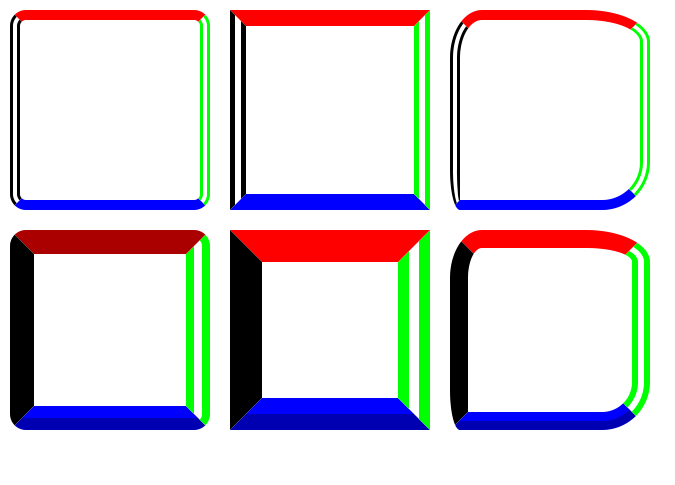
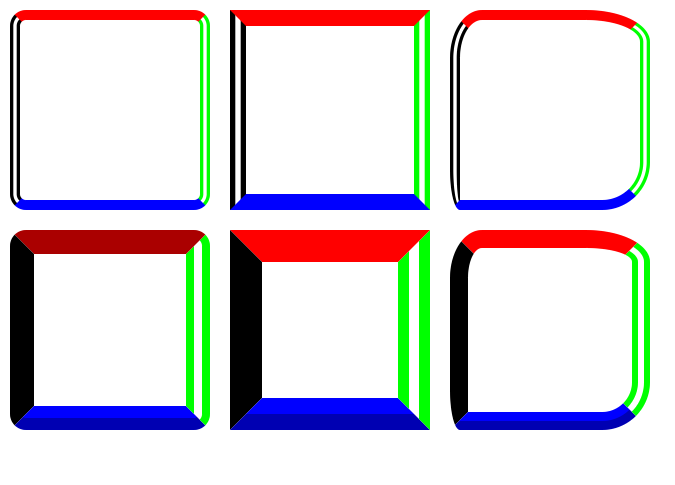
Support double style borders in new border brush path.

diff --git a/webrender/src/border.rs b/webrender/src/border.rs
@@ -471,12 +471,12 @@ impl<'a> DisplayListFlattener<'a> {
                 BorderStyle::Solid |
                 BorderStyle::Hidden |
                 BorderStyle::None |
+                BorderStyle::Double |
                 BorderStyle::Inset |
                 BorderStyle::Outset => {
                     true
                 }
 
-                BorderStyle::Double |
                 BorderStyle::Dotted |
                 BorderStyle::Dashed |
                 BorderStyle::Groove |
@@ -1433,7 +1433,7 @@ fn add_edge_segment(
         color,
         segment,
         instances,
-        DeviceSize::zero(),
+        task_rect.size,
         DeviceSize::zero(),
     );
 
